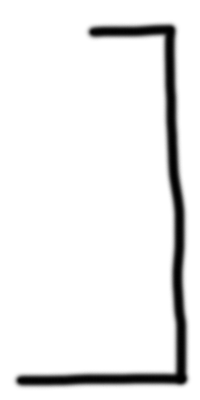
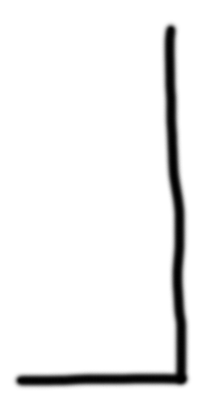
edits 1

Changed region(s): [[0.42, 0.03, 0.87, 0.12]]

diff --git a/index.html b/index.html
@@ -8,6 +8,7 @@
     <script src="assets/javascript/game.js"></script>
     <link rel="stylesheet" href="https://maxcdn.bootstrapcdn.com/bootstrap/4.0.0/css/bootstrap.min.css" integrity="sha384-Gn5384xqQ1aoWXA+058RXPxPg6fy4IWvTNh0E263XmFcJlSAwiGgFAW/dAiS6JXm" crossorigin="anonymous">
     <link rel="stylesheet" href="assets/css/style.css">
+    <link href="https://fonts.googleapis.com/css?family=Lobster" rel="stylesheet">
     <title>Word Guess Game</title>
 </head>
 
@@ -19,7 +20,7 @@
                 <img id="youwin-image" src="assets/images/you-win.png" alt="Winning Image" />
                 <img id="gameover-image" src="assets/images/gameover.png" alt="Game Over Image" />
                 <h2 id="pressKeyTryAgain">Press Any Key to Try Again!</h2>
-                <img id="hangmanImage" src="assets/images/0.png" alt="" />
+                <img id="hangmanImage" src="assets/images/cleared.png" alt="" />
             </div>
             <div class="col-md-6 gameplay-column">
                 <h2>Press Any Key to Get Started!</h2>

diff --git a/assets/javascript/game.js b/assets/javascript/game.js
@@ -25,7 +25,7 @@ const maxTries = 10;            // Maximum number of tries player has
 
 var guessedLetters = [];        // Stores the letters the user guessed
 var currentWordIndex;           // Index of the current word in the array
-var guessingWord = [];          // This will be the word we actually build to match the current word
+var guessingWord = [];          // This will be the word that is actually built to match the current word
 var remainingGuesses = 0;       // How many tries the player has left
 var gameStarted = false;        // Flag to tell if the game has started
 var hasFinished = false;        // Flag for 'press any key to try again'     
@@ -44,7 +44,7 @@ function resetGame() {
   guessingWord = [];
 
   // Make sure the hangman image is cleared
-  document.getElementById("hangmanImage").src = "";
+  document.getElementById("hangmanImage").src = "cleared.png";
 
   // Build the guessing word and clear it out
   for (var i = 0; i < selectableWords[currentWordIndex].length; i++) {

diff --git a/assets/css/style.css b/assets/css/style.css
@@ -1,7 +1,7 @@
 body {
     background-color: #eee;
     padding-top: 20px;
-    font-family: Courier New, Courier, monospace;
+    font-family: 'Lobster', cursive;;
     color: white;
     text-shadow: 0 0 2px black, -1px -1px 2px black, 1px 0 2px black, 1px 1px 2px black;
     background: url('../images/bgimage.jpg') no-repeat;
@@ -14,7 +14,7 @@ body {
 h1,h2,h3,
 h4,h5,h6 {
     padding: 5px;
-    background-color: rgba(101,155,242,.2);
+    background-color: rgba(209, 171, 2, 0.418);
 }
 #title-image, #gameover-image, #youwin-image{ 
     display: block;
@@ -30,7 +30,7 @@ h4,h5,h6 {
 #youwin-image { display: none;}
 .gameplay-column {
     padding-top: 20px;
-    border: 3px dashed #fff;
+    border: 3px solid #fff;
     text-align: center;
     margin-top: 20px;
     min-height: 500px;
